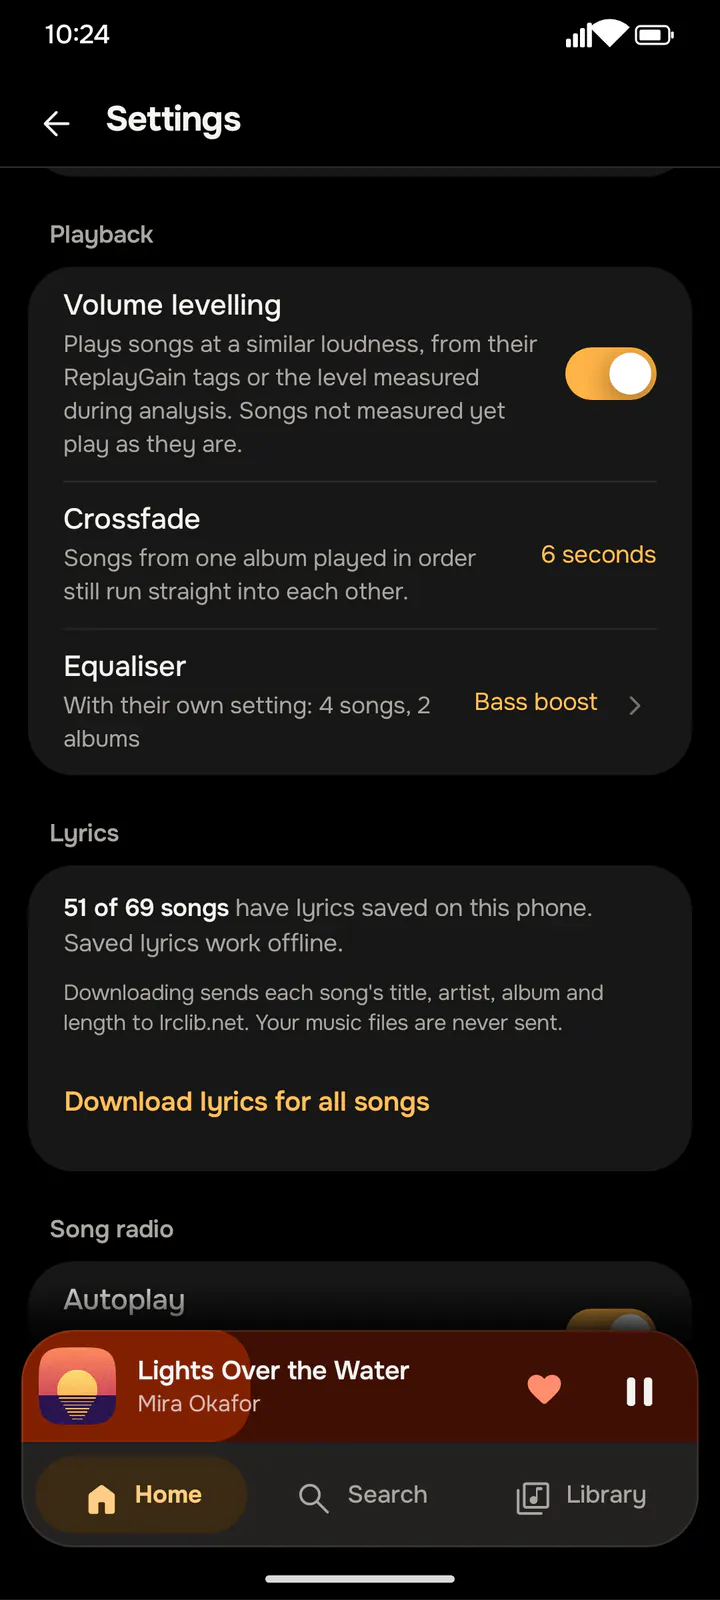
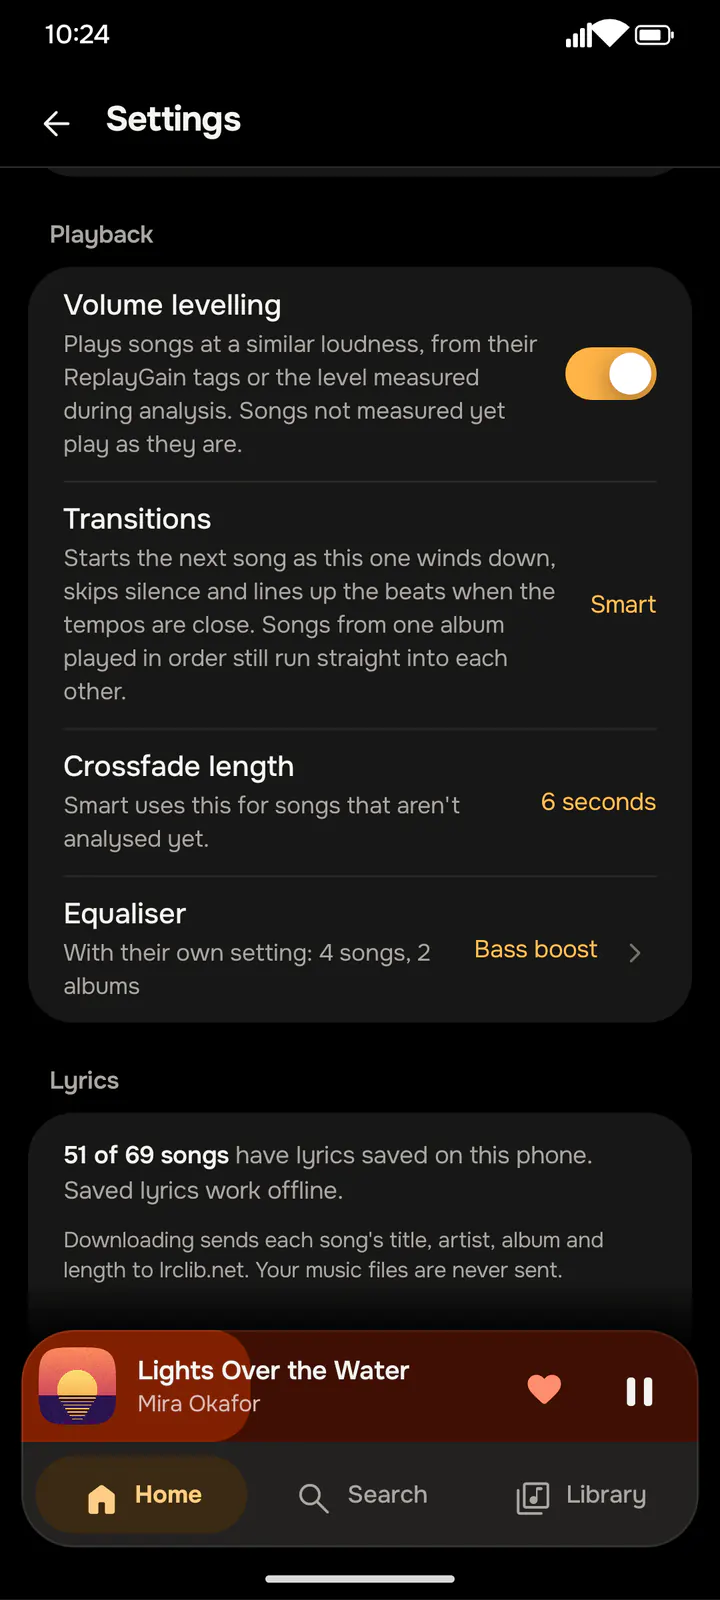
Show Smart transitions in the Settings > Playback store shot
The Playback shot now has Transitions set to Smart above the Crossfade
length row. DemoStates.settings takes the mode, still Crossfade by
default, so the full Settings shot and the design references are
unchanged. Site images re-rendered in both styles, light and dark.

diff --git a/app/src/storeShots/kotlin/app/attic/player/storeshots/StoreShots.kt b/app/src/storeShots/kotlin/app/attic/player/storeshots/StoreShots.kt
@@ -7,6 +7,7 @@ import app.attic.player.ui.expressive.ExpressiveEqualiserPage
 import app.attic.player.ui.expressive.ExpressiveEqualiserSheet
 import app.attic.player.ui.expressive.FromCover
 import app.attic.player.designrefs.MoodStates
+import app.attic.player.playback.TransitionMode
 import app.attic.player.ui.comfort.ComfortInterests
 import app.attic.player.ui.comfort.ComfortMood
 import app.attic.player.ui.expressive.ExpressiveInterests
@@ -154,7 +155,9 @@ private fun Screen(style: UiStyle, screen: String) {
         "search-browse" ->
             InShell(style, Tab.Search) { if (expressive) ExpressiveSearch(s.searchBrowse, s.searchActions) else ComfortSearch(s.searchBrowse, s.searchActions) }
         "settings", "settings-playback" -> {
-            val state = s.settings(style, LocalIsDark.current)
+            // Playback shows Smart, the 1.3 transition; the full Settings shot keeps the default demo.
+            val transitions = if (screen == "settings-playback") TransitionMode.Smart else TransitionMode.Crossfade
+            val state = s.settings(style, LocalIsDark.current, transitions)
             InShell(style, Tab.Home) { if (expressive) ExpressiveSettings(state, s.settingsActions) else ComfortSettings(state, s.settingsActions) }
         }
         "recap" ->

diff --git a/app/src/storeShots/kotlin/app/attic/player/storeshots/DemoStates.kt b/app/src/storeShots/kotlin/app/attic/player/storeshots/DemoStates.kt
@@ -318,12 +318,13 @@ object DemoStates {
 
     // Settings
 
-    fun settings(style: UiStyle, dark: Boolean) = SettingsState(
+    /** [transitions] is Crossfade, as the design files draw Settings; the store shot of Playback shows Smart. */
+    fun settings(style: UiStyle, dark: Boolean, transitions: TransitionMode = TransitionMode.Crossfade) = SettingsState(
         themeMode = if (dark) ThemeMode.Dark else ThemeMode.Light,
         uiStyle = style,
         autoplay = true,
         volumeLevelling = true,
-        transitions = TransitionMode.Crossfade,
+        transitions = transitions,
         crossfadeSeconds = 6,
         bulkLyrics = BulkProgress(done = 0, total = 0, found = 0, running = false),
         savedLyricsCount = 51,
